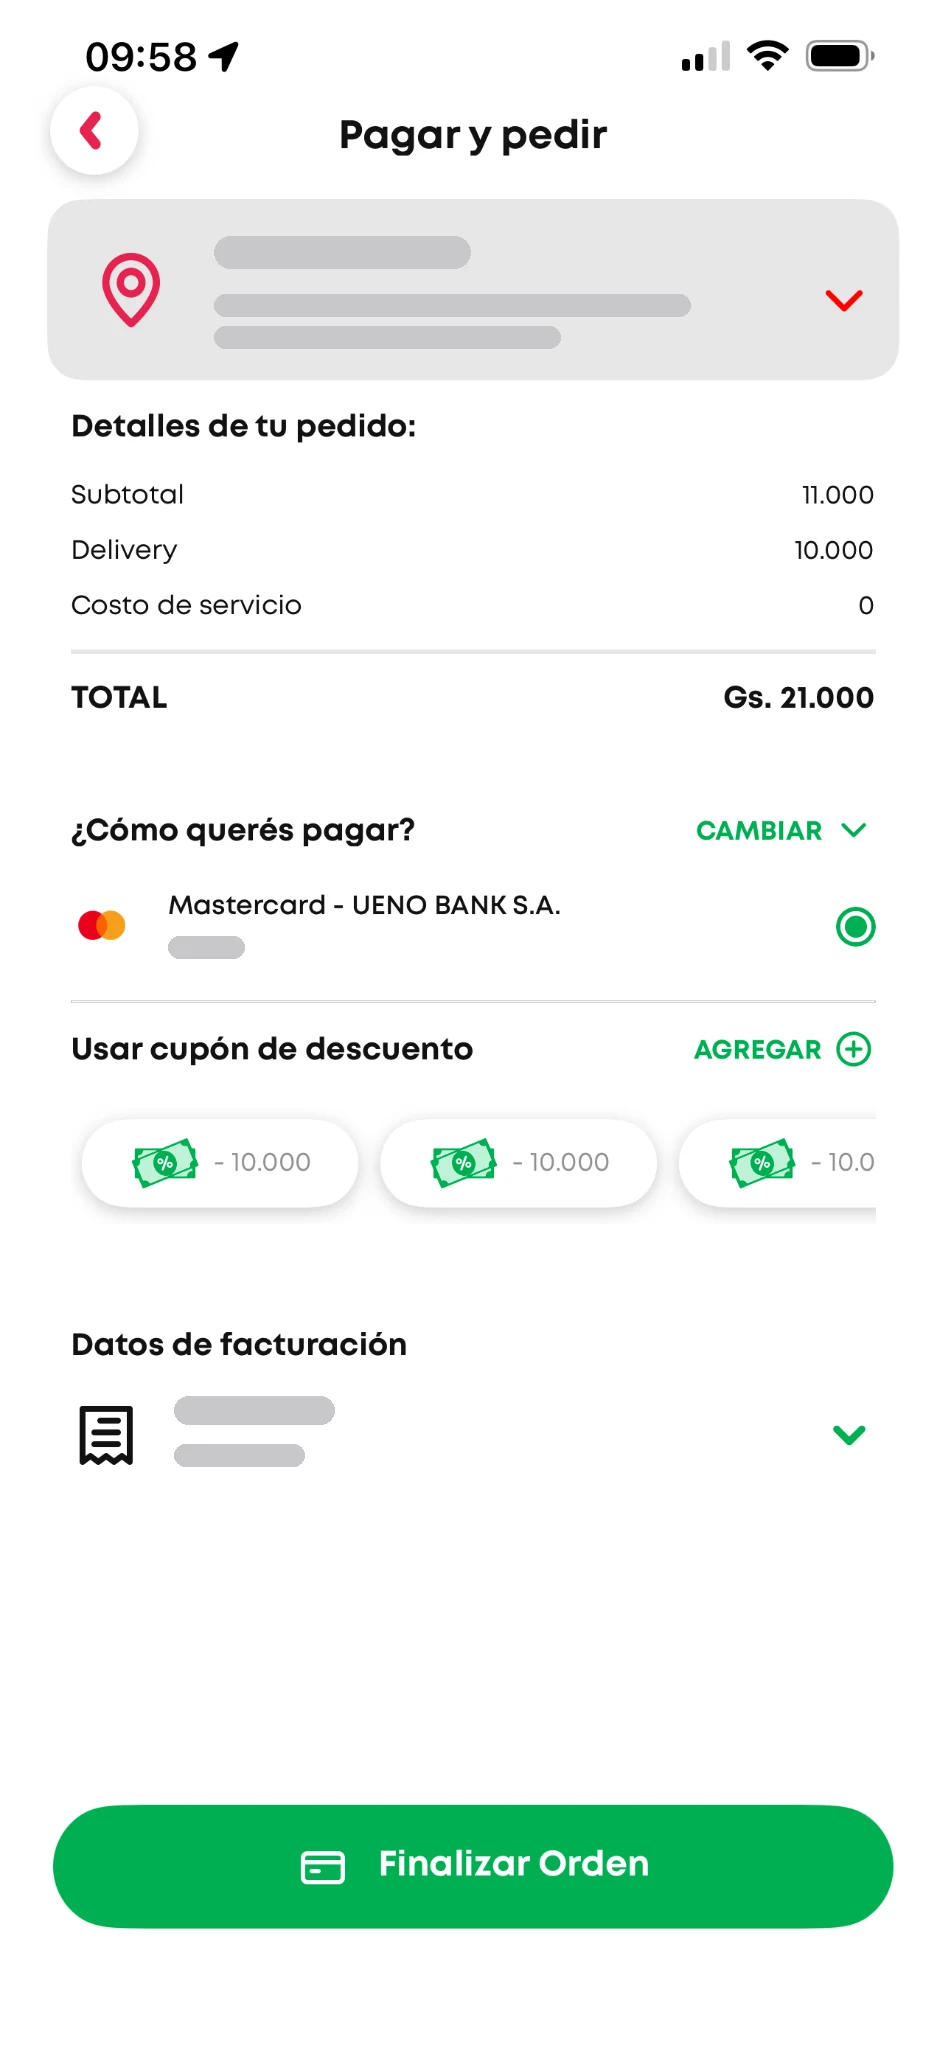
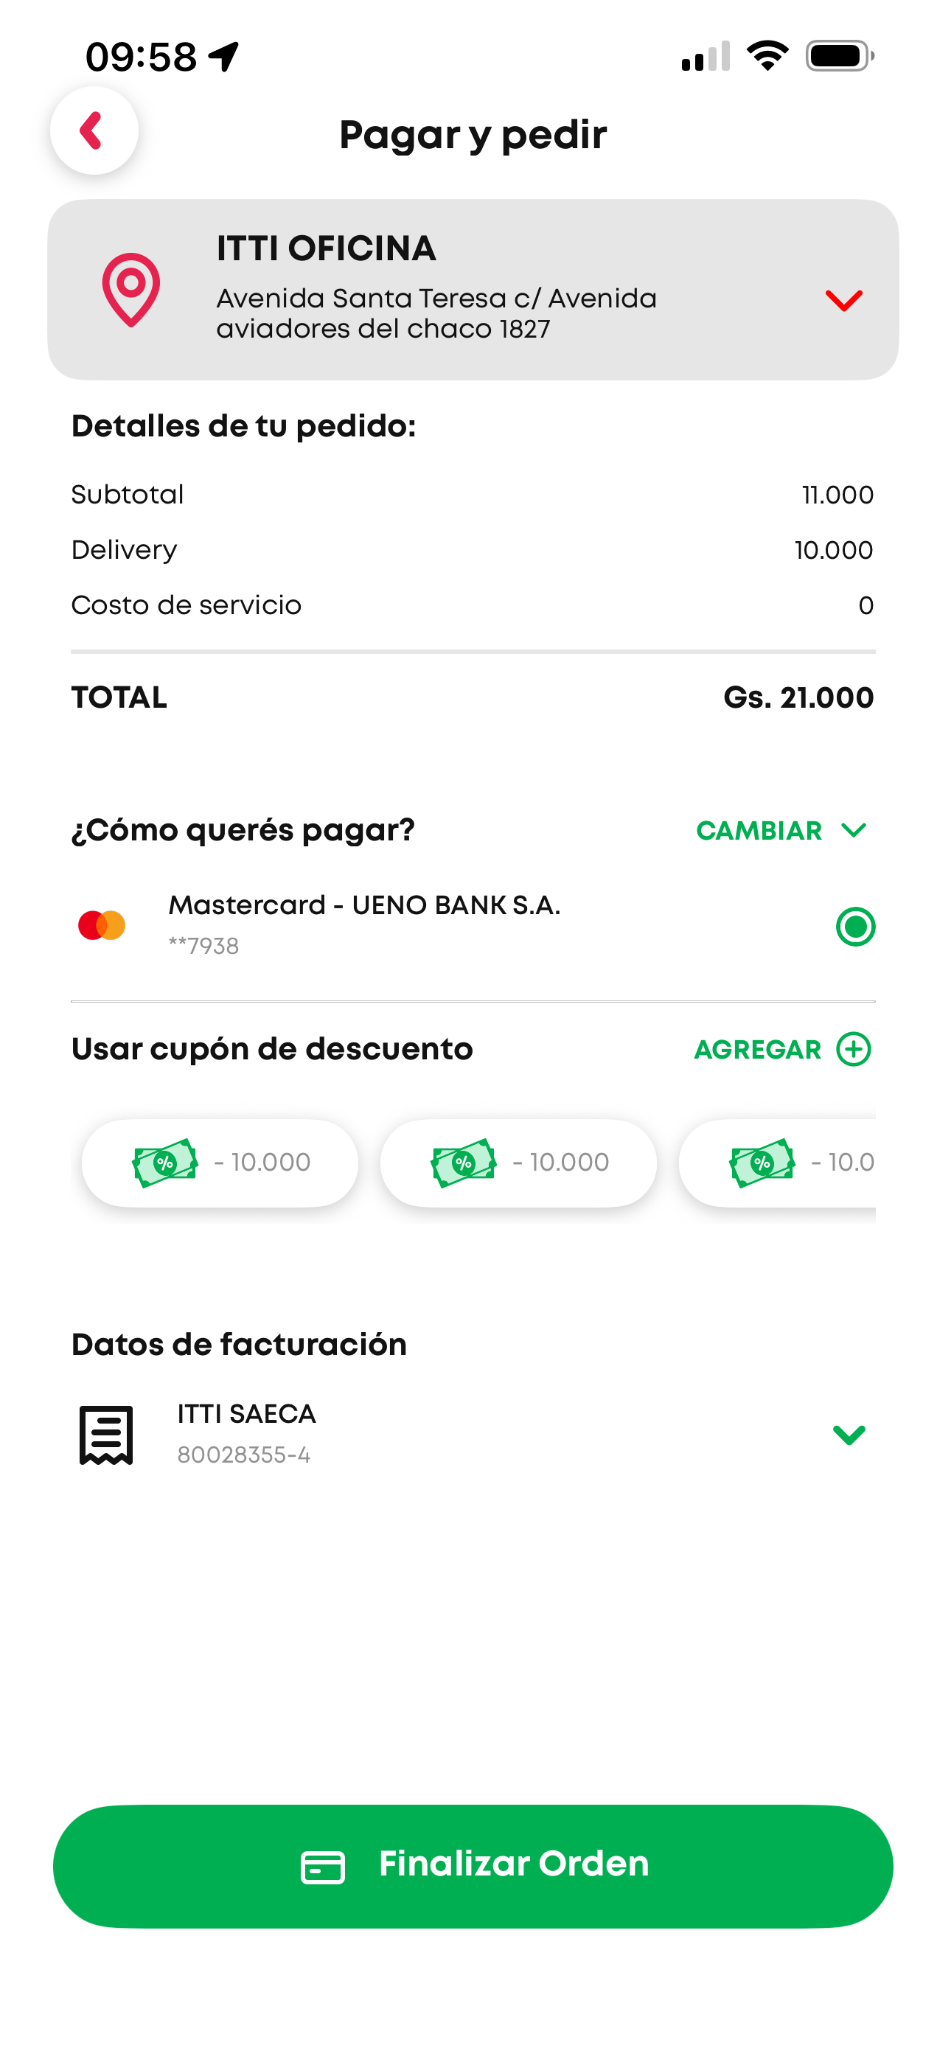
Monchis: nueva sección 01 · Contexto y problema
- Tres tensiones de diseño (variabilidad, claridad, conversión).
- Síntesis editorial del user flow: escenarios de compra e información a organizar.
- Checkout anterior original, con tres fricciones anotadas desde el borde.
- Pregunta de diseño como cierre.

Claude-Session: https://claude.ai/code/session_01DJ4kQgEHjb3PtnpPBBuZ5X

diff --git a/proyectos/monchis.html b/proyectos/monchis.html
@@ -26,26 +26,63 @@ summary: 'Rediseñamos el checkout de Monchis para simplificar decisiones, aclar
   <div class="chapters">
 
     <section class="chapter" id="contexto" data-title="Contexto y problema">
-      <header class="chapter-head"><p class="eyebrow">Contexto y problema</p><h2 class="chapter-title">El momento en que <em>se confirma la compra</em></h2></header>
-      <p class="lead">En el checkout se cruzaban tres tensiones: la velocidad de compra, la validación de cobertura de la dirección y las nuevas apuestas del negocio, como cupones y propinas. La persona ya eligió qué comprar; si el último paso la hace dudar o volver atrás, el pedido se pierde. Para el equipo de producto, era uno de los puntos donde se perdían órdenes.</p>
-      <div class="ctx-goals">
-        <p class="eyebrow">Fricciones identificadas en el PRD</p>
-        <ul>
-          <li>Una interfaz confusa.</li>
-          <li>Un proceso de pago largo y complicado.</li>
-          <li>No se podía confirmar la dirección ni dejar indicaciones de entrega.</li>
-          <li>Poca claridad sobre los métodos de pago.</li>
-          <li>Reclamos por falta de claridad sobre las condiciones de los beneficios.</li>
-          <li>No había forma de dar propina al repartidor.</li>
-        </ul>
-      </div>
-      <div class="split phone-split">
-        <div class="stack">
-          <p class="statement"><span class="eyebrow">Pregunta de diseño</span>¿Cómo entregamos la información y las acciones necesarias para finalizar una compra <em>sin generar nuevas distracciones</em>?</p>
-          <p>En el checkout anterior, los cupones aparecían solo como montos, sin nombre ni condiciones, y no había espacio para la propina ni para las indicaciones de entrega.</p>
+      <header class="chapter-head"><p class="eyebrow">Contexto y problema</p><h2 class="chapter-title">Una misma etapa, <em>distintos escenarios de compra</em>.</h2></header>
+      <p class="lead">El checkout concentraba decisiones críticas antes de confirmar un pedido: dónde y cuándo recibirlo, cómo pagar y qué beneficios aplicar. La experiencia anterior presentaba fricciones de claridad y jerarquía, mientras el producto debía responder a diferentes modalidades de compra sin complicar el pago.</p>
+
+      <ol class="research-list tensions" aria-label="Tensiones de diseño">
+        <li><p class="eyebrow">Variabilidad</p><p>Envíos, retiros y pedidos agendados requerían información y acciones diferentes.</p></li>
+        <li><p class="eyebrow">Claridad</p><p>La experiencia debía facilitar la revisión de direcciones, pagos, costos y beneficios.</p></li>
+        <li><p class="eyebrow">Conversión</p><p>Era necesario incorporar nuevas capacidades sin distraer al usuario de finalizar la compra.</p></li>
+      </ol>
+
+      <figure class="flowmap">
+        <ol class="fm-phases">
+          <li><b>Previo al checkout</b><span>Carrito de compra</span></li>
+          <li class="is-scope"><b>Checkout</b><span>Alcance de este caso</span></li>
+          <li><b>Post-checkout</b><span>Pago, seguimiento y calificación</span></li>
+        </ol>
+        <div class="fm-body">
+          <div class="fm-scenarios">
+            <p class="eyebrow">Cada pedido combina</p>
+            <div class="fm-axis"><span class="fm-label">Modalidad</span><span class="chip">Envío a domicilio</span><span class="chip">Retiro en el local</span></div>
+            <div class="fm-axis"><span class="fm-label">Momento</span><span class="chip">Inmediato</span><span class="chip">Agendado</span></div>
+          </div>
+          <div class="fm-modules">
+            <p class="eyebrow">Información y decisiones a organizar</p>
+            <ul>
+              <li><b>Dirección e indicaciones</b><span>Elegir una dirección guardada, agregar una nueva y dejar instrucciones de entrega.</span></li>
+              <li><b>Método de pago</b><span>Usar el método por defecto o agregar una tarjeta u otro método.</span></li>
+              <li><b>Cupones y beneficios</b><span>Ingresar o elegir un cupón, validarlo y ver el descuento aplicado.</span></li>
+              <li><b>Propina</b><span>Montos porcentuales o fijos, propina personalizada e información de contexto.</span></li>
+              <li><b>Resumen de costos</b><span>Productos, envío y beneficios aplicados.</span></li>
+              <li><b>Confirmación</b><span>Confirmar la orden y pasar al pago.</span></li>
+            </ul>
+          </div>
         </div>
-        {% include media.html src="/assets/img/monchis-checkout-anterior.webp" width="947" height="2048" class="shot-phone" alt="Checkout anterior de Monchis, «Pagar y pedir»: dirección arriba, detalle de costos, método de pago, cupones mostrados solo como montos, datos de facturación y botón Finalizar orden. Datos personales anonimizados." caption="Checkout anterior a la iniciativa. Datos anonimizados." %}
+        <figcaption class="fig-cap"><b>Síntesis del user flow del proyecto.</b> No es un recorrido lineal: cada pedido combina estos elementos según su escenario. Muestra el alcance de diseño, no lo que llegó a producción.</figcaption>
+      </figure>
+
+      <div class="anatomy anatomy--phone">
+        <figure class="asis-phone">
+          <div class="asis-screen">
+            <img src="/assets/img/monchis-checkout-anterior.webp" alt="Checkout anterior de Monchis, «Pagar y pedir»: dirección arriba, detalle de costos, método de pago, cupones mostrados solo como montos, datos de facturación y botón Finalizar orden" width="947" height="2048" loading="lazy" decoding="async">
+            <span class="pin" style="left:99%;top:13.8%" aria-hidden="true">1</span>
+            <span class="pin" style="left:99%;top:27%" aria-hidden="true">2</span>
+            <span class="pin" style="left:99%;top:55.4%" aria-hidden="true">3</span>
+          </div>
+          <figcaption class="fig-cap">Checkout anterior a la iniciativa.</figcaption>
+        </figure>
+        <div class="stack">
+          <p class="eyebrow">Fricciones del checkout anterior</p>
+          <ol class="anatomy-notes">
+            <li><h3>La dirección, solo como texto</h3><p>Sin mapa para confirmar el punto exacto ni espacio para indicaciones de entrega.</p></li>
+            <li><h3>Sin propina</h3><p>El detalle del pedido no la contemplaba: no había forma de dársela al repartidor.</p></li>
+            <li><h3>Cupones sin contexto</h3><p>Se mostraban solo como montos, sin nombre ni condiciones.</p></li>
+          </ol>
+        </div>
       </div>
+
+      <p class="statement ctx-question"><span class="eyebrow">Pregunta de diseño</span>¿Cómo mostrar lo necesario en cada escenario <em>sin sumar fricción al momento de pagar</em>?</p>
       <h3 class="sub-title">Equipo y mi rol</h3>
       <dl class="role-grid">
         <div><dt>Cargo</dt><dd>Product Designer</dd></div>

diff --git a/assets/styles.css b/assets/styles.css
@@ -1585,3 +1585,61 @@ body { font-family: var(--sans); font-size: var(--fs-body); line-height: 1.65; f
   .case-hero--story:not(:has(.case-brief)) .case-title { max-width: none; font-size: clamp(2.4rem, 1.1rem + 2.7vw, 3.6rem); }
   .case-hero--story:not(:has(.case-brief)) .case-lede { font-size: clamp(1.1rem, .95rem + .35vw, 1.25rem); }
 }
+
+/* ==========================================================================
+   Monchis · 01 Contexto: tensiones, síntesis del user flow y checkout anterior
+   ========================================================================== */
+/* Tres tensiones en una fila (mismo panel editorial que Investigación) */
+.research-list.tensions > li { gap: 6px; }
+.research-list.tensions p:not(.eyebrow) { font-size: 1rem; line-height: 1.5; color: var(--ink); text-wrap: pretty; }
+@media (min-width: 760px) {
+  .research-list.tensions { grid-template-columns: repeat(3, minmax(0, 1fr)); }
+  .research-list.tensions > li:nth-child(n) { border-top: 0; border-left: 0; grid-column: auto; }
+  .research-list.tensions > li + li { border-left: 1px solid var(--line); }
+}
+
+/* Síntesis del user flow */
+.flowmap { margin: 0; display: grid; gap: 12px; }
+.fm-phases { list-style: none; margin: 0; padding: 0; display: grid; grid-template-columns: 1fr 2.2fr 1fr; border-radius: 18px 18px 0 0; overflow: hidden; }
+.fm-phases li { display: grid; gap: 2px; align-content: center; padding: 12px 16px; background: var(--bg-3); color: var(--muted); }
+.fm-phases li + li { border-left: 1px solid var(--bg); }
+.fm-phases b { font-size: .9rem; font-weight: var(--w-semibold); color: var(--ink); }
+.fm-phases span { font-size: .78rem; }
+.fm-phases li:not(.is-scope) b { color: var(--muted); }
+.fm-phases .is-scope { background: var(--bg-2); }
+.fm-phases .is-scope span { color: var(--rose-ink); font-weight: var(--w-semibold); }
+.fm-body {
+  display: grid; gap: 20px; margin-top: -12px; padding: 22px; border: 1px solid var(--line); border-top: 0;
+  border-radius: 0 0 18px 18px; background: var(--surface);
+}
+@media (min-width: 900px) {
+  .fm-body { grid-template-columns: minmax(0, 16rem) minmax(0, 1fr); gap: 0; padding: 0; }
+  .fm-scenarios { padding: 22px 24px; border-right: 1px solid var(--line); position: relative; }
+  .fm-scenarios::after { content: "→"; position: absolute; right: -13px; top: 50%; translate: 0 -50%; width: 26px; height: 26px; display: grid; place-items: center; border-radius: 50%; background: var(--bg-2); color: var(--rose-ink); font-size: .85rem; }
+  .fm-modules { padding: 22px 24px 22px 32px; }
+}
+.fm-scenarios, .fm-modules { display: grid; gap: 12px; align-content: start; }
+.fm-scenarios .eyebrow, .fm-modules .eyebrow { font-size: .7rem; letter-spacing: .14em; color: var(--rose-ink); }
+.fm-axis { display: flex; flex-wrap: wrap; gap: 6px; align-items: center; }
+.fm-label { width: 100%; font-size: .72rem; font-weight: var(--w-semibold); letter-spacing: .08em; text-transform: uppercase; color: var(--muted); }
+.fm-axis .chip { font-size: .82rem; padding: 5px 11px; background: var(--bg-3); border-color: transparent; }
+.fm-modules ul { list-style: none; margin: 0; padding: 0; display: grid; gap: 10px; grid-template-columns: repeat(auto-fit, minmax(min(100%, 13rem), 1fr)); }
+.fm-modules li { display: grid; gap: 3px; align-content: start; padding: 12px 14px; border-radius: 12px; border: 1px solid var(--line); }
+.fm-modules li b { font-size: .92rem; font-weight: var(--w-semibold); color: var(--ink); }
+.fm-modules li span { font-size: .84rem; line-height: 1.45; color: var(--muted); }
+@media (max-width: 599px) {
+  .fm-phases { grid-template-columns: 1fr; }
+  .fm-phases li + li { border-left: 0; border-top: 1px solid var(--bg); }
+}
+
+/* Checkout anterior en teléfono, con marcadores en el borde (no tapan la interfaz) */
+.anatomy--phone { align-items: center; }
+@media (min-width: 900px) { .anatomy--phone { grid-template-columns: minmax(0, 17rem) minmax(0, 26rem); gap: 56px; justify-content: start; } }
+.asis-phone { margin: 0; display: grid; gap: 10px; max-width: 17rem; justify-self: center; width: 100%; }
+.asis-screen {
+  position: relative; padding: 8px; border-radius: 40px; background: var(--ink);
+  box-shadow: inset 0 0 0 1.5px #4A454D, 0 28px 56px -32px rgba(41, 38, 43, .45);
+}
+.asis-screen img { display: block; width: 100%; height: auto; border-radius: 32px; }
+.anatomy--phone .eyebrow { font-size: .7rem; letter-spacing: .14em; color: var(--rose-ink); }
+.ctx-question { margin-top: 8px; }
